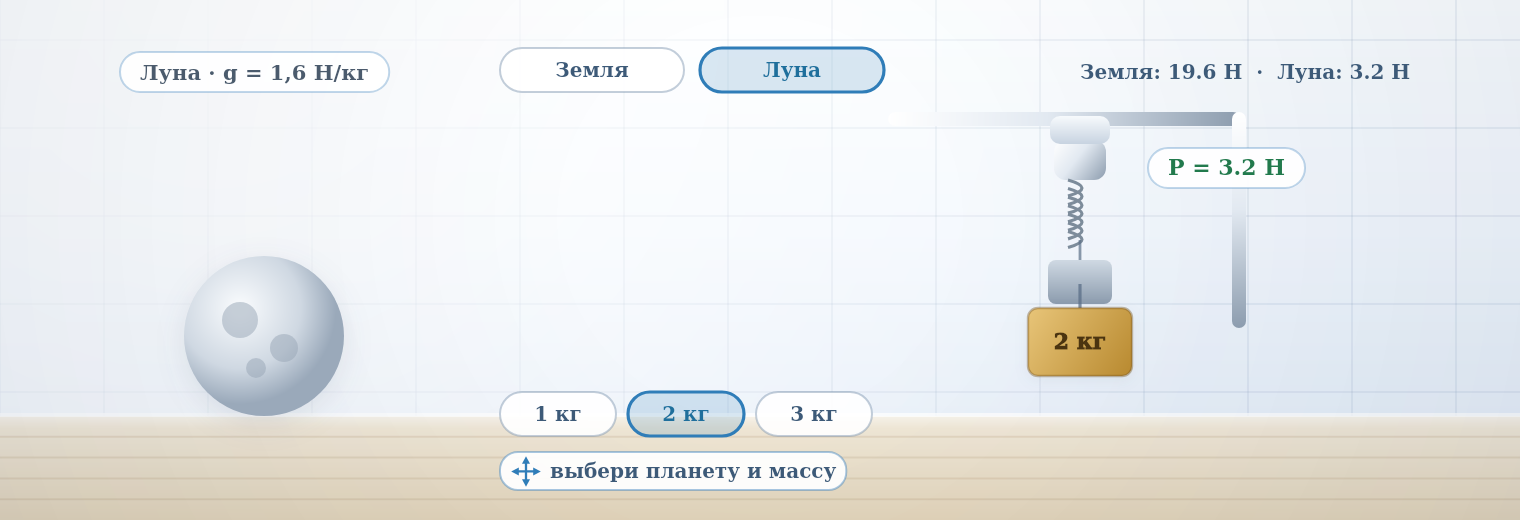
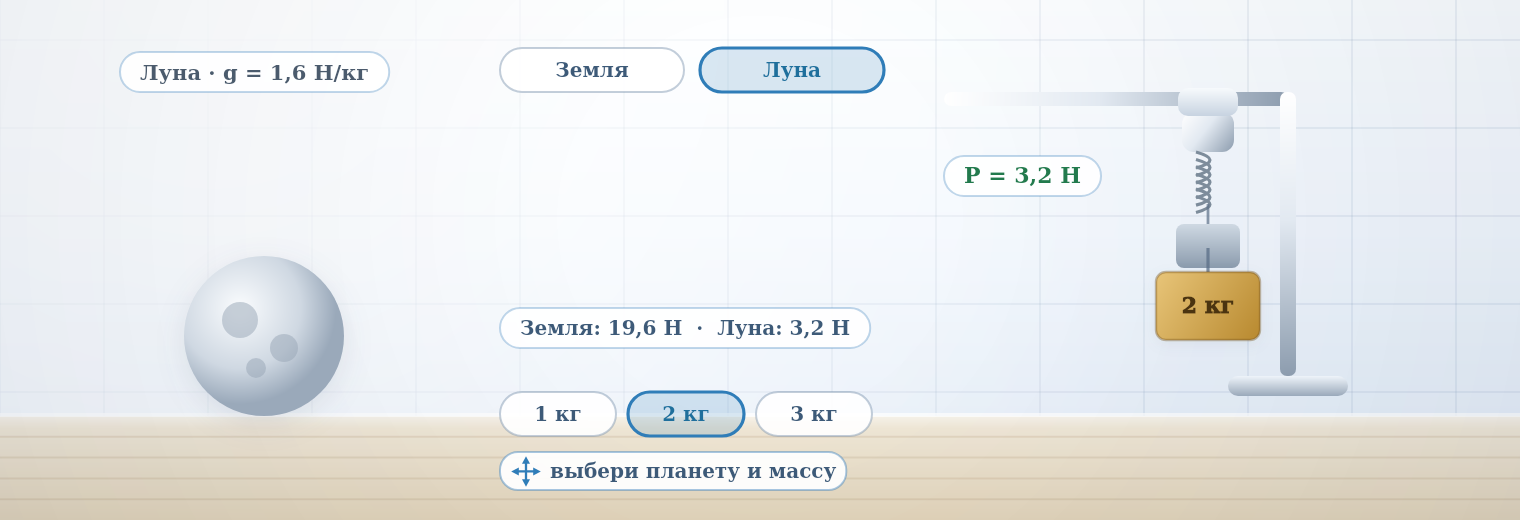
Битва экипажей: банк заданий без Teacher; комиксы в «Лор и сюжет»; вес на Луне
- shared/team-battle.js: пул вопросов собирается из всех банков задач, даже если
  teacher.js не подключён (раньше битва молча оставалась без вопросов);
  корректная подпись «Верно/Неверно» при строковом correctAnswer;
  фаза results, честный текст при ошибке вместо «Время вышло»
- shared/trilogy-diary.js: кнопка комикса встаёт в .story-actions модалки «Лор и сюжет»
- shared/sim-light-7.js: динамометр на штативе с опорой до пола и читаемой подписью P
- README / screenshots.html: актуальные счётчики (58 симуляторов, 33 кадра)

Changed region(s): [[0.6184, 0.1231, 0.9276, 0.7692], [0.3401, 0.5846, 0.5566, 0.6769]]

diff --git a/shared/team-battle.js b/shared/team-battle.js
@@ -327,7 +327,13 @@
                 if (typeof Teacher !== "undefined" && Teacher.getAllTasks) tasks = Teacher.getAllTasks();
             } catch (_) {}
             if (!tasks.length) {
-                try { tasks = (typeof TASKS_DATABASE !== "undefined" && TASKS_DATABASE) || []; } catch (_) {}
+                // без Teacher (например, страница без teacher.js) собираем все банки заданий сами,
+                // иначе битва молча оставалась без вопросов
+                try { if (typeof TASKS_DATABASE !== "undefined" && Array.isArray(TASKS_DATABASE)) tasks = tasks.concat(TASKS_DATABASE); } catch (_) {}
+                try { if (typeof TASKS_DATABASE_EXT !== "undefined" && Array.isArray(TASKS_DATABASE_EXT)) tasks = tasks.concat(TASKS_DATABASE_EXT); } catch (_) {}
+                try { if (typeof TASKS_DATABASE_CH !== "undefined" && Array.isArray(TASKS_DATABASE_CH)) tasks = tasks.concat(TASKS_DATABASE_CH); } catch (_) {}
+                try { if (typeof TASKS_DATABASE_EXT2 !== "undefined" && Array.isArray(TASKS_DATABASE_EXT2)) tasks = tasks.concat(TASKS_DATABASE_EXT2); } catch (_) {}
+                try { if (typeof TASKS_DATABASE_PRACTICAL !== "undefined" && Array.isArray(TASKS_DATABASE_PRACTICAL)) tasks = tasks.concat(TASKS_DATABASE_PRACTICAL); } catch (_) {}
             }
             const grade = Number(window.CURRENT_GRADE) || 8;
             const allowed = ["multiple-choice", "true-false", "numeric"];
@@ -478,9 +484,10 @@
                 const expected = typeof q.correctAnswer === "string" ? q.correctAnswer === "true" : !!q.correctAnswer;
                 correct = (idx === 0) === expected;
             }
+            const truth = typeof q.correctAnswer === "string" ? q.correctAnswer === "true" : !!q.correctAnswer;
             const answerText = q.type === "multiple-choice"
                 ? loc((q.options[lang()] || q.options.ru || [])[q.correctAnswer])
-                : (q.correctAnswer ? (lang() === "en" ? "True" : lang() === "kk" ? "Шын" : "Верно") : (lang() === "en" ? "False" : lang() === "kk" ? "Жалған" : "Неверно"));
+                : (truth ? (lang() === "en" ? "True" : lang() === "kk" ? "Шын" : "Верно") : (lang() === "en" ? "False" : lang() === "kk" ? "Жалған" : "Неверно"));
             this.resolve(correct, answerText, idx);
         },
 
@@ -504,7 +511,7 @@
             if (fb) {
                 fb.innerHTML = `
                     <div class="pq-battle-result ${correct ? "good" : "bad"}">
-                        <strong>${correct ? esc(t("correct")) : esc(t("timeout") + " · " + t("wrong"))}</strong>
+                        <strong>${correct ? esc(t("correct")) : (answerText ? esc(t("wrong")) : esc(t("timeout") + " · " + t("wrong")))}</strong>
                         ${answerText ? `<span>${esc(t("right"))}: <b>${esc(answerText)}</b></span>` : ""}
                     </div>
                     <button type="button" class="btn btn-primary pq-battle-next" id="pq-battle-next">${esc(t("next"))}</button>`;
@@ -537,6 +544,7 @@
             const root = document.getElementById("pq-battle");
             const s = this.state;
             if (!root || !s) return;
+            s.phase = "results";
             if (this.timer) { clearInterval(this.timer); this.timer = null; }
             const sorted = [...s.crews].sort((a, b) => b.score - a.score || b.shield - a.shield);
             const best = sorted[0];

diff --git a/shared/sim-light-7.js b/shared/sim-light-7.js
@@ -456,15 +456,16 @@
         chipBtn(ctx, 350, 24, 92, "Луна", moon);
         hit({ kind: "tap", key: "body", value: "Earth", x: 296, y: 35, r: 26 });
         hit({ kind: "tap", key: "body", value: "Moon", x: 396, y: 35, r: 26 });
-        // динамометр
-        const sx = 540;
-        steelBar(ctx, sx - 96, 56, 176, 7, 3.5);
-        steelBar(ctx, sx + 76, 56, 7, 108, 3.5);
-        springScale(ctx, sx, 70, moon ? 30 : 62, st.massKg);
+        // динамометр на штативе: стойка доходит до пола, подпись — слева от пружины
+        const sx = 604;
+        steelBar(ctx, sx - 132, 46, 172, 7, 3.5);
+        steelBar(ctx, sx + 36, 46, 8, base - 66, 3.5);
+        fillRR(ctx, sx + 10, base - 20, 60, 10, 5, lin(ctx, 0, base - 20, 0, base - 10, [[0, "#eef4fa"], [1, "#9aa9ba"]]));
+        springScale(ctx, sx, 56, moon ? 26 : 46, st.massKg);
         const wgt = st.massKg * g;
-        pill(ctx, `P = ${wgt.toFixed(1)} Н`, sx + 34, 74, { size: 11, color: "#227a4d" });
+        pill(ctx, `P = ${wgt.toFixed(1).replace(".", ",")} Н`, sx - 132, 78, { size: 11, color: "#227a4d" });
         // груз висит на крючке динамометра
-        const hookY = 70 + 52 + (moon ? 30 : 62);
+        const hookY = 56 + 52 + (moon ? 26 : 46);
         ctx.strokeStyle = "rgba(90,110,135,0.75)"; ctx.lineWidth = 1.6;
         ctx.beginPath(); ctx.moveTo(sx, hookY - 10); ctx.lineTo(sx, hookY + 2); ctx.stroke();
         crate(ctx, sx - 26, hookY + 2, 52, 34, `${st.massKg} кг`);
@@ -476,9 +477,9 @@
         gripChip(ctx, 250, 226, "выбери планету и массу");
         if (st.earthWeight || st.moonWeight) {
             const list = [];
-            if (st.earthWeight) list.push(`Земля: ${st.earthWeight.toFixed(1)} Н`);
-            if (st.moonWeight) list.push(`Луна: ${st.moonWeight.toFixed(1)} Н`);
-            text(ctx, list.join("  ·  "), 540, 40, { size: 10, color: C.ink2, weight: 700 });
+            if (st.earthWeight) list.push(`Земля: ${st.earthWeight.toFixed(1).replace(".", ",")} Н`);
+            if (st.moonWeight) list.push(`Луна: ${st.moonWeight.toFixed(1).replace(".", ",")} Н`);
+            pill(ctx, list.join("  ·  "), 250, 154, { size: 10, color: C.ink2 });
         }
     };
 

diff --git a/screenshots.html b/screenshots.html
@@ -219,7 +219,7 @@
             openGame: "Открыть игру", toPortal: "На портал",
             kicker: "ИНТЕРАКТИВНЫЕ СИМУЛЯТОРЫ · 7–9 КЛАССЫ",
             title: "Скриншоты мини-игр «Физика-Квест»",
-            lead: "33 симулятора внутри игры: 15 полевых опытов для 7 класса и 18 canvas-лабораторий для 8 и 9 классов. Каждый опыт — это реальная установка: меняй параметры, следи за телеметрией, выводи установку в целевой режим и вводи расчётное значение. Ниже — 18 кадров из игры.",
+            lead: "33 симулятора внутри игры: 15 полевых опытов для 7 класса и 18 canvas-лабораторий для 8 и 9 классов. Каждый опыт — это реальная установка: меняй параметры, следи за телеметрией, выводи установку в целевой режим и вводи расчётное значение. Ниже — все 33 кадра: 15 превью опытов 7 класса и 18 лабораторий 8–9 классов.",
             sLabs: "симулятора в игре", sNew: "новых опытов в этой версии", sLangs: "языка интерфейса", sReward: "за каждый подтверждённый опыт",
             newBadge: "новый", grade: "класс",
             f7Kicker: "7 КЛАСС · ПОЛЕВОЙ ЖУРНАЛ", f7Title: "15 полевых симуляторов · превью",

diff --git a/shared/trilogy-diary.js b/shared/trilogy-diary.js
@@ -1490,7 +1490,8 @@
                 btn.type = "button";
                 btn.id = "pq-story-comics";
                 btn.className = "btn btn-primary pq-story-comics";
-                const actions = content.querySelector(".modal-actions");
+                // в play.html у модалки «Лор и сюжет» разметка .story-actions
+                const actions = content.querySelector(".modal-actions, .story-actions");
                 if (actions) actions.insertBefore(btn, actions.firstChild);
                 else content.appendChild(btn);
                 btn.addEventListener("click", (e) => {

diff --git a/README.md b/README.md
@@ -8,7 +8,7 @@
 
 ---
 
-## Состав трилогии (153 уровня · 3 294 задачи · 43 лаборатории и симулятора)
+## Состав трилогии (153 уровня · 3 294 задачи · 58 лабораторий и симуляторов)
 
 | Параллель | Кампания | Уровни | Банк задач | Особенности |
 | :--- | :--- | :---: | :---: | :--- |
